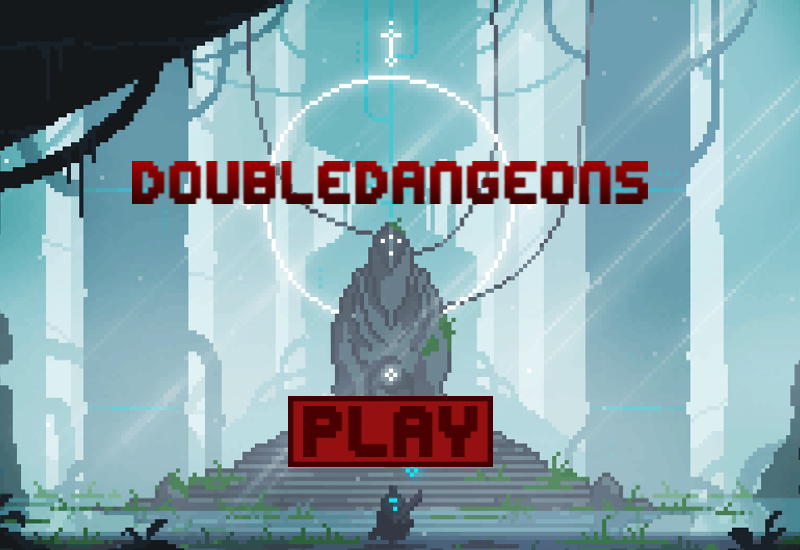
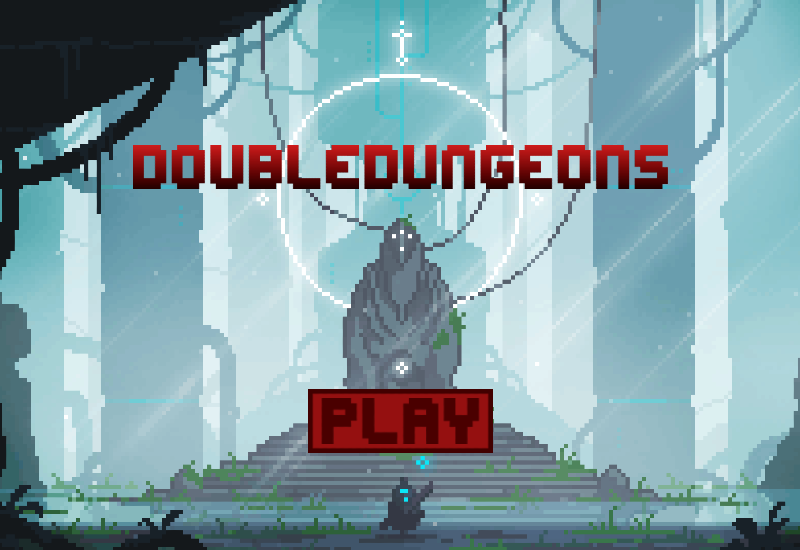
updated startscreen & added some sprites

diff --git a/start.py b/start.py
@@ -1,6 +1,9 @@
 import pygame
 import sys
 import os
+
+from pytmx import pytmx
+
 from constants import *
 
 pygame.init()
@@ -38,6 +41,29 @@ class Box(pygame.sprite.Sprite):
         self.image = tile_images[tile_type]
         self.rect = self.image.get_rect().move(
             tile_width * pos_x, tile_height * pos_y)
+
+
+class AnimatedSprite(pygame.sprite.Sprite):
+    def __init__(self, sheet, columns, rows, x, y):
+        super().__init__(all_sprites)
+        self.frames = []
+        self.cut_sheet(sheet, columns, rows)
+        self.cur_frame = 0
+        self.image = self.frames[self.cur_frame]
+        self.rect = self.rect.move(x, y)
+
+    def cut_sheet(self, sheet, columns, rows):
+        self.rect = pygame.Rect(0, 0, sheet.get_width() // columns,
+                                sheet.get_height() // rows)
+        for j in range(rows):
+            for i in range(columns):
+                frame_location = (self.rect.w * i, self.rect.h * j)
+                self.frames.append(sheet.subsurface(pygame.Rect(
+                    frame_location, self.rect.size)))
+
+    def update(self):
+        self.cur_frame = (self.cur_frame + 1) % len(self.frames)
+        self.image = self.frames[self.cur_frame]
 
 
 class Player(pygame.sprite.Sprite):
@@ -122,7 +148,7 @@ def load_level(filename):
 pygame.display.set_caption('Double Dungeons')
 tile_images = {
     'wall': load_image('wood.png'),
-    'empty': load_image('stone.png')
+    'empty': load_image('dessert_floor_2.png')
 }
 player_image = load_image('knight.png')
 enemy1_image = load_image('broomstickman.png')
